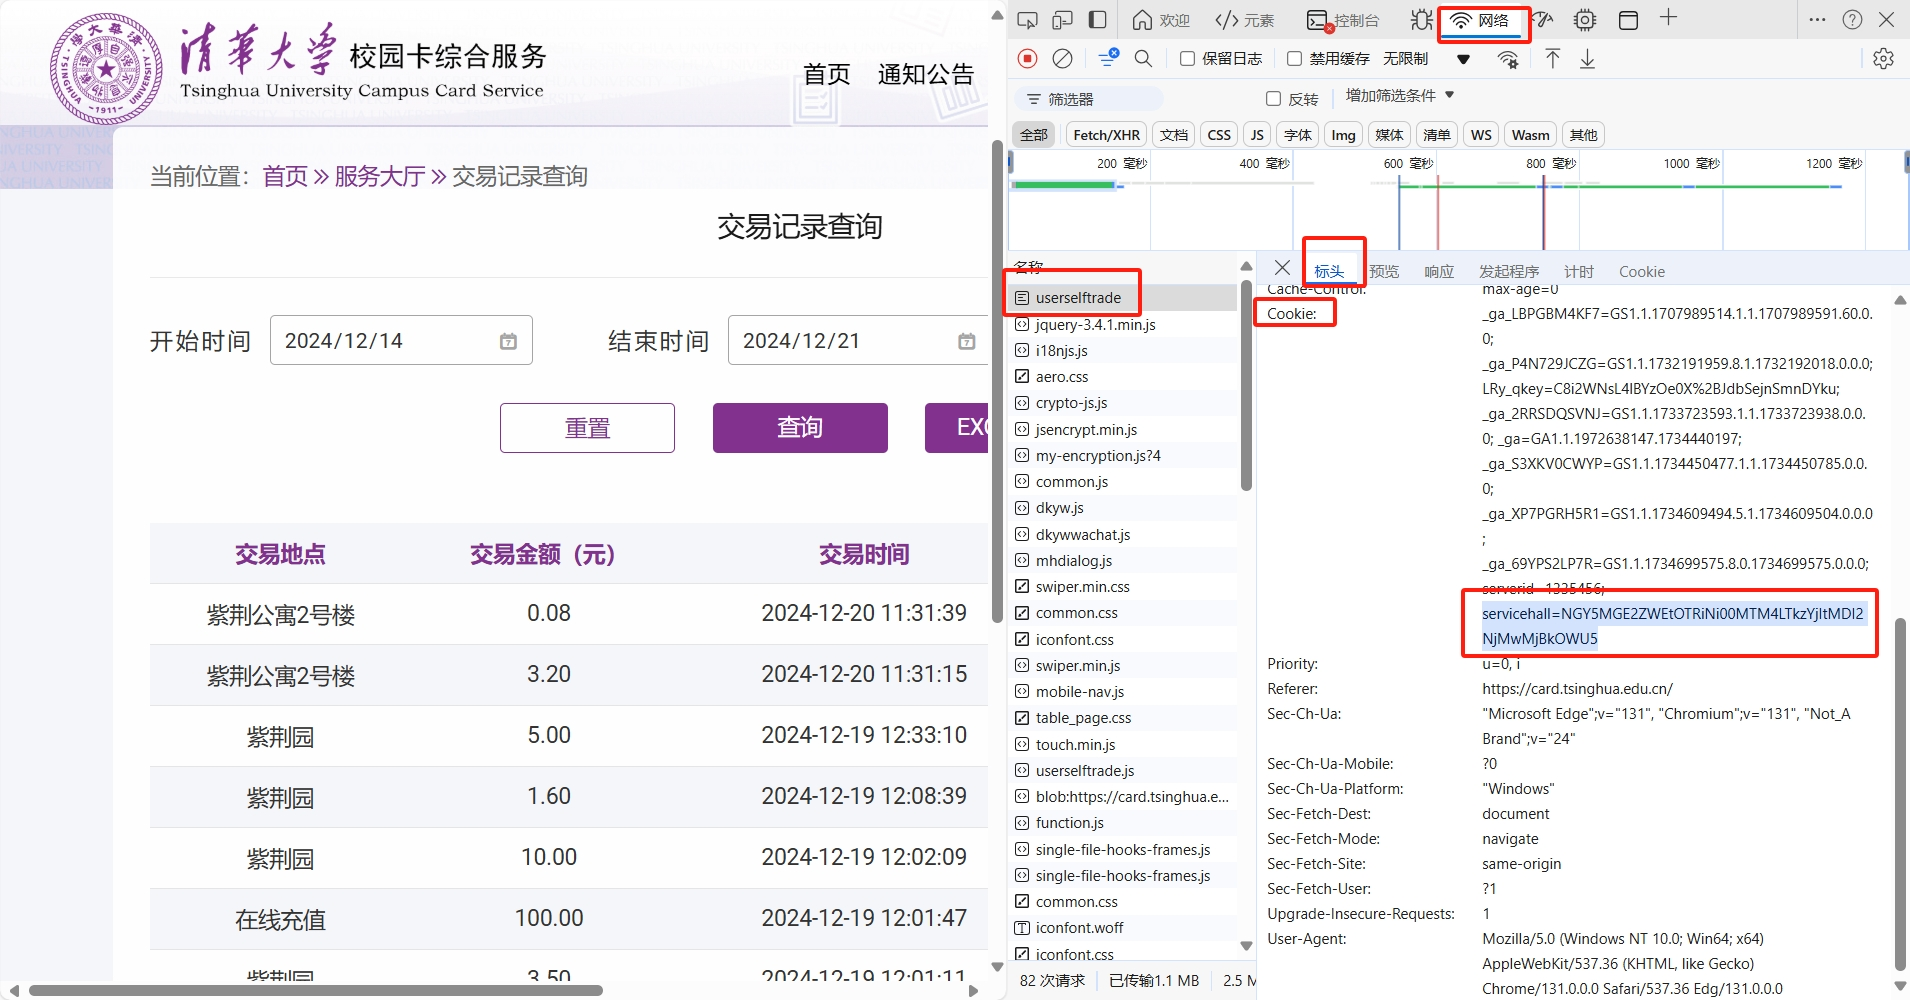
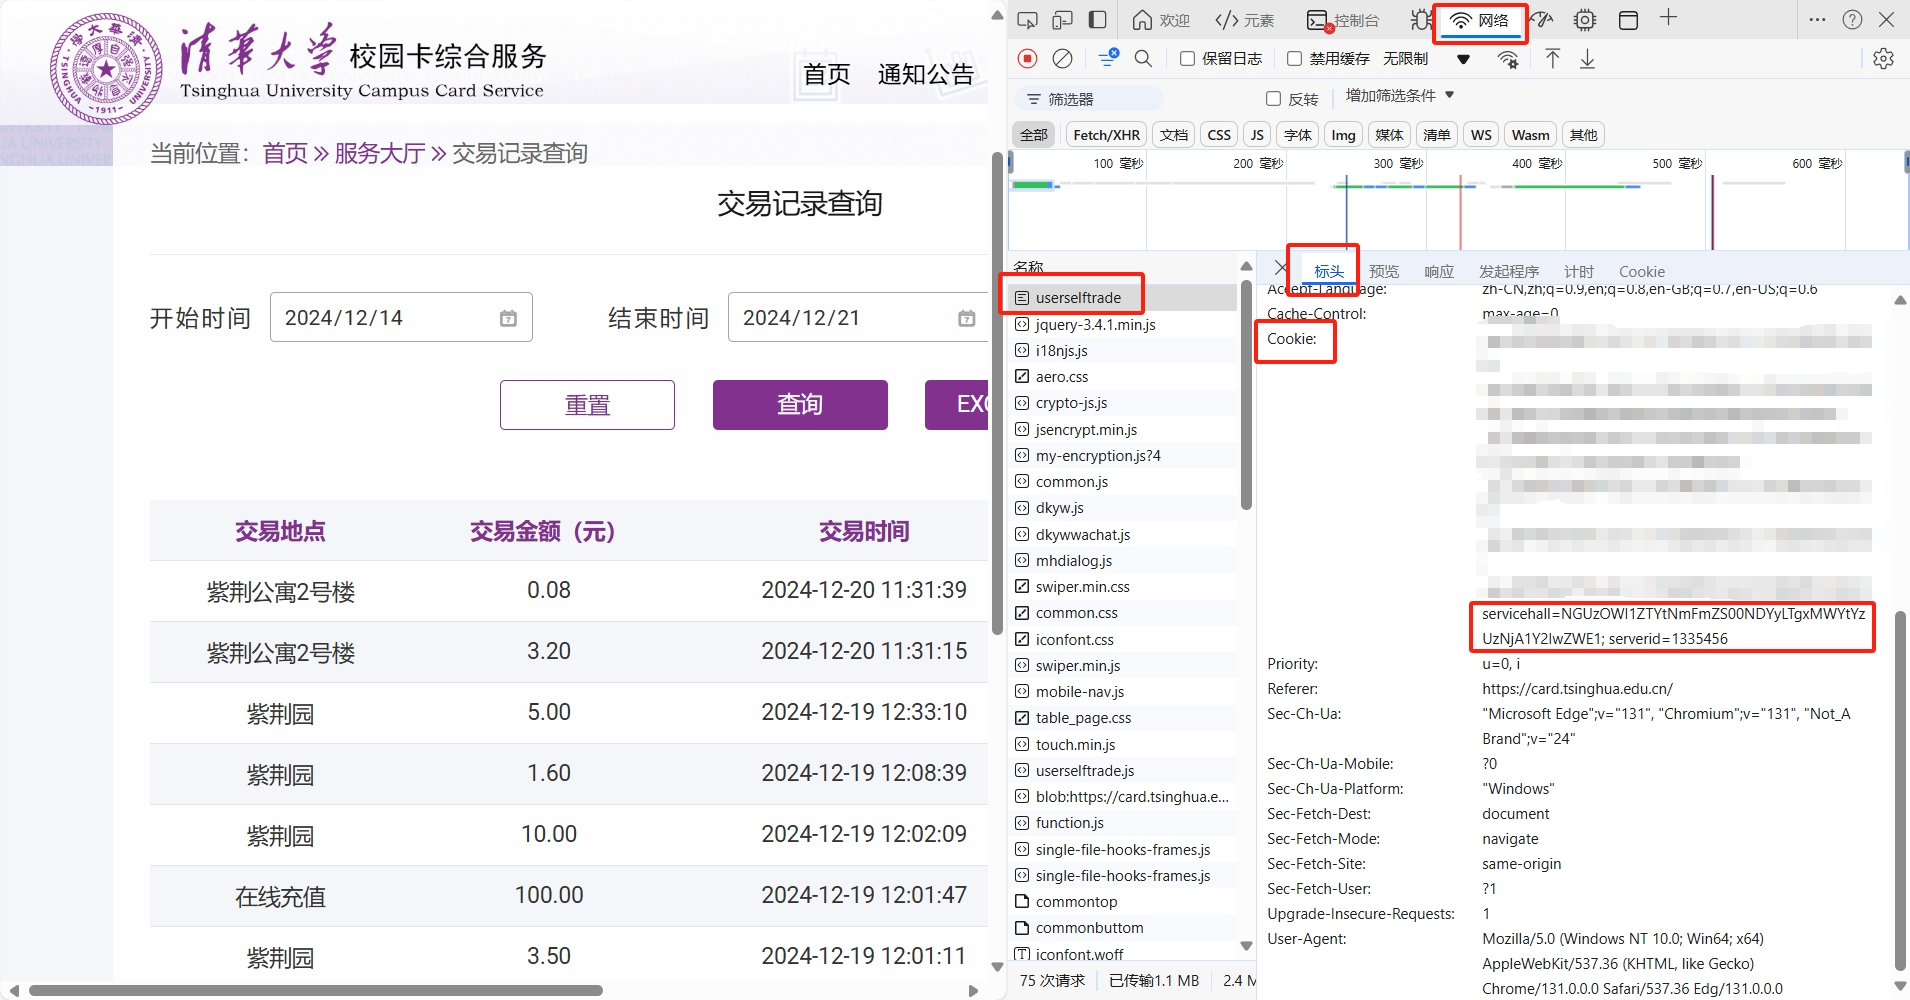
fix: Fix #3 .

diff --git a/main.py b/main.py
@@ -28,18 +28,14 @@ if __name__ == "__main__":
     try:
         with open("config.json", "r", encoding='utf-8') as f:
             account = json.load(f)
-            username = account["username"]
-            password = account["password"]
             idserial = account["idserial"]
             servicehall = account["servicehall"]
     except Exception as e:
         print("账户信息读取失败，请重新输入")
-        username = input("请输入用户名: ")
-        password = input("请输入密码: ")
         idserial = input("请输入学号: ")
         servicehall = input("请输入服务代码: ")
         with open("config.json", "w", encoding='utf-8') as f:
-            json.dump({"username": username, "password": password, "idserial": idserial, "servicehall": servicehall}, f, indent=4)
+            json.dump({"idserial": idserial, "servicehall": servicehall}, f, indent=4)
     
     # 发送请求，得到加密后的字符串
     url = f"https://card.tsinghua.edu.cn/business/querySelfTradeList?pageNumber=0&pageSize=5000&starttime=2024-01-01&endtime=2024-12-31&idserial={idserial}&tradetype=-1"

diff --git a/README.md b/README.md
@@ -18,7 +18,7 @@
 
 `F12` 打开开发者工具，切换到 Network（网络）标签页，然后 `Ctrl + R` 刷新页面，找到 `userselftrade` 这个请求，查看标头中的 `Cookie` 字段，其中包含了你的服务代码。
 
-服务代码就是 `servicehall=` 后面的一串字符，复制下来，后面会用到。
+服务代码是 `servicehall=` **之后**的一串字符（不含 `servicehall=`），复制下来，后面会用到。
 
 ![servicehall](./servicehall.png)
 
@@ -46,8 +46,6 @@ python main.py
 
 ```json
 {
-    "username": "你的账号",
-    "password": "你的密码",
     "idserial": "你的学号",
     "servicehall": "你的服务代码"
 }
